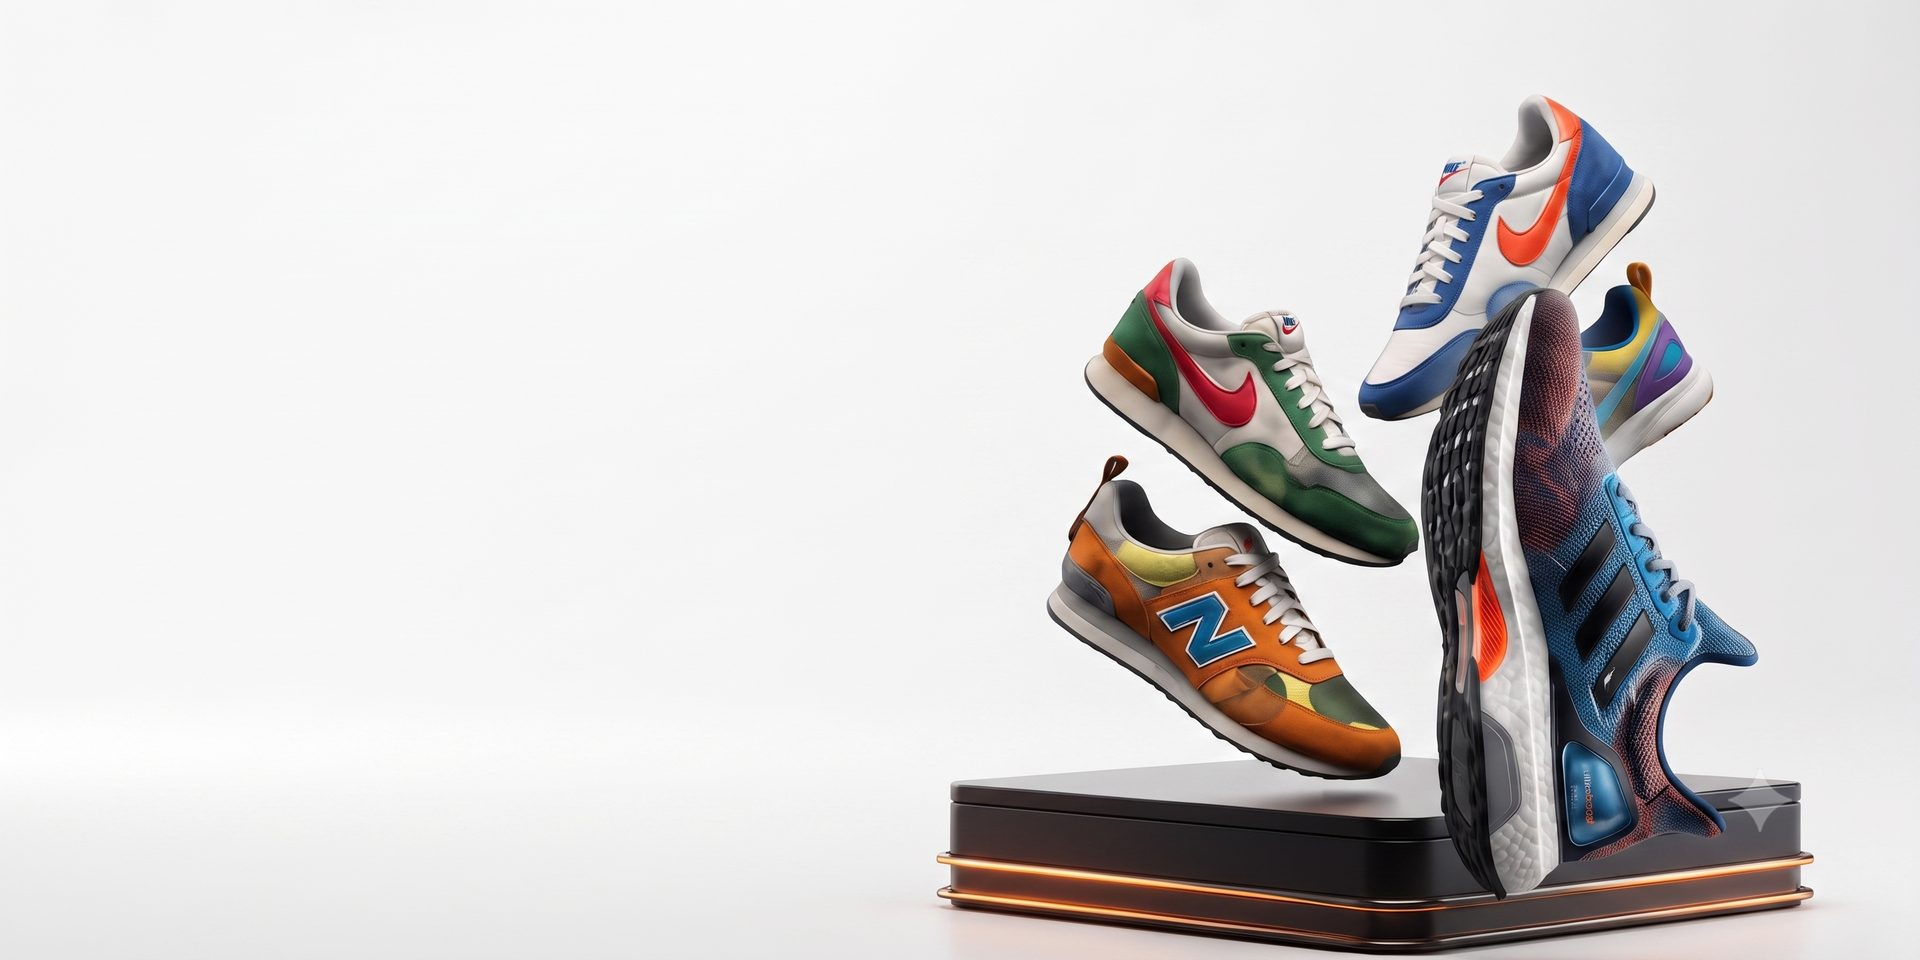
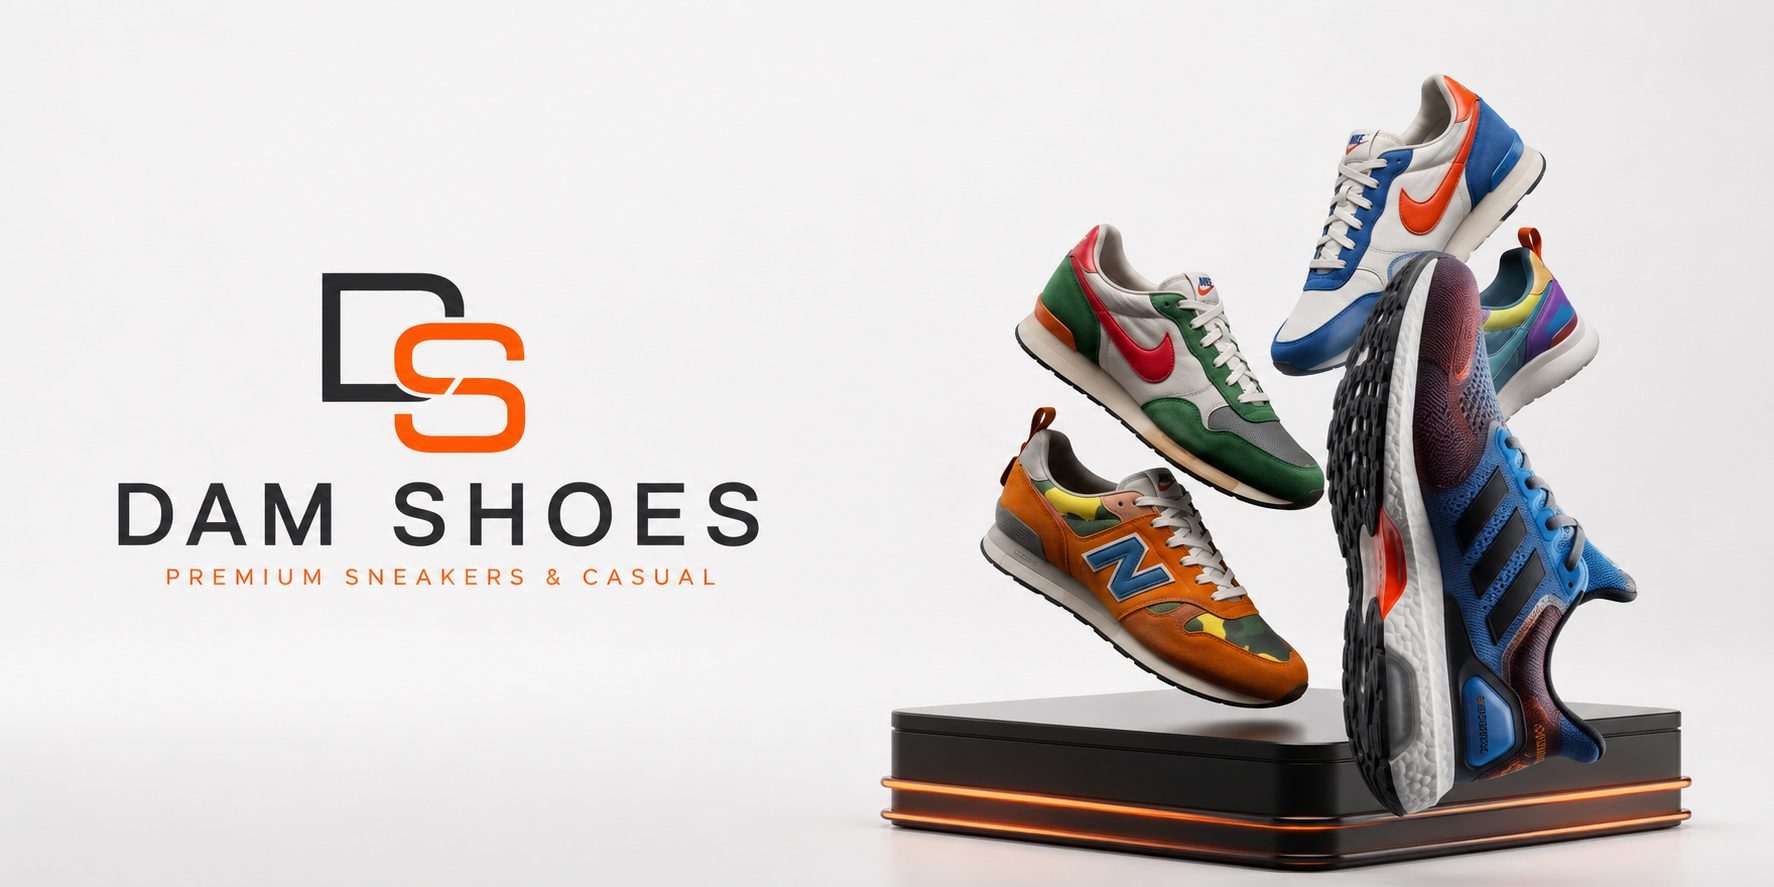
Add files via upload

diff --git a/index.html b/index.html
@@ -32,11 +32,11 @@
     #hero.hero-clean .hero-pattern { display: none !important; }
     #hero.hero-clean .hero-img {
       position: absolute; inset: 0; width: 100%; height: 100%;
-      object-fit: cover; object-position: 68% center;
+      object-fit: cover; object-position: center;
     }
     @media (max-width: 640px) {
       #hero.hero-clean { min-height: 240px; }
-      #hero.hero-clean .hero-img { object-position: 75% center; }
+      #hero.hero-clean .hero-img { object-position: center; }
     }
   </style>
 </head>
